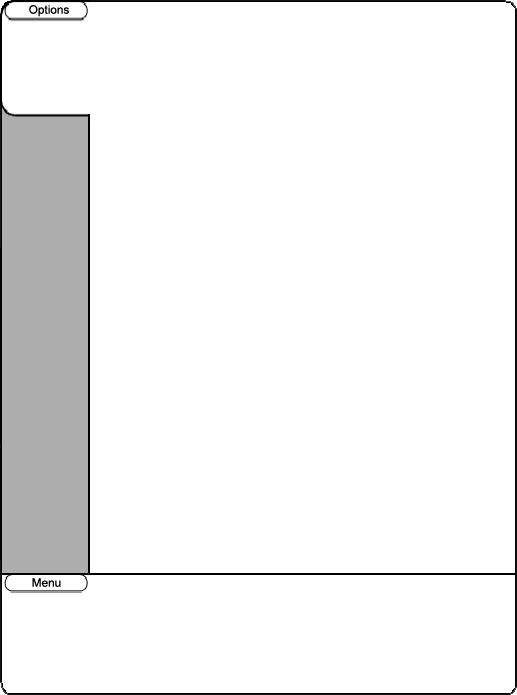
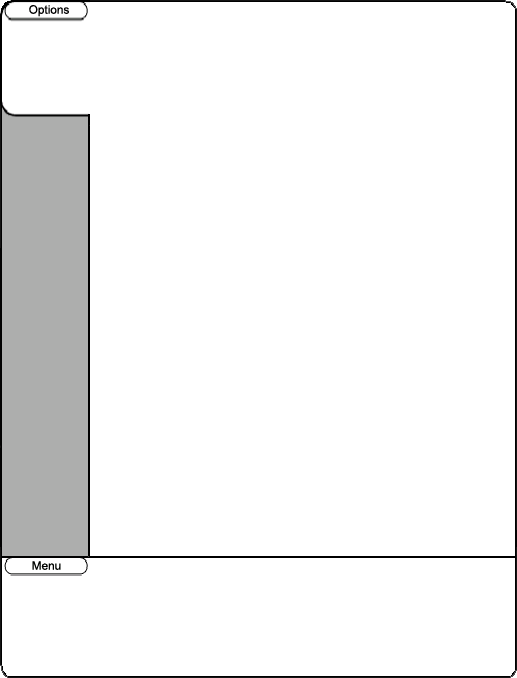
add close button in menu.

Changed region(s): [[0.0, 0.8053, 1.0, 0.8673], [0.0, 0.1549, 0.1857, 0.1858], [0.0, 0.0, 0.1547, 0.031]]

diff --git a/code/src/ui/menu.cpp b/code/src/ui/menu.cpp
@@ -34,6 +34,7 @@ PopupMenu::PopupMenu(QWidget *parent, bool load_translator)
 , system_section_()
 , separator_(this)
 , system_separator_(this)
+, close_pressed_(false)
 {
     createMenuLayout();
     onyx::screen::watcher().flush(this, onyx::screen::ScreenProxy::GU);
@@ -47,7 +48,7 @@ PopupMenu::~PopupMenu()
 // Create menu.
 void PopupMenu::createMenuLayout()
 {
-    big_layout_.setContentsMargins(2, 16, 5, 5);
+    big_layout_.setContentsMargins(2, 28, 5, 5);
 
     big_layout_.addLayout(&menu_layout_);
 
@@ -178,8 +179,16 @@ void PopupMenu::paintEvent(QPaintEvent *pe)
 //    onyx::screen::instance().enableUpdate(true);
 //    onyx::screen::watcher().flush(this, onyx::screen::ScreenProxy::GU);
 
+    QPixmap pixmap(":/images/close_menu.png");
+    if(close_pressed_)
+    {
+        pixmap = QPixmap(":/images/close_menu_pressed.png");
+    }
+    close_x_ = QPixmap(image_path).width()-pixmap.width()-8;
+    close_size_ = pixmap.size();
+    p.drawPixmap(close_x_, 2, pixmap);
 
-
+    onyx::screen::watcher().enqueue(this, onyx::screen::ScreenProxy::GU, onyx::screen::ScreenCommand::WAIT_NONE);
 }
 
 void PopupMenu::resizeEvent(QResizeEvent *)
@@ -189,6 +198,14 @@ void PopupMenu::resizeEvent(QResizeEvent *)
 
 void PopupMenu::mousePressEvent(QMouseEvent *me)
 {
+    QRect close_button_rect(close_x_, 2, close_size_.width(), close_size_.height());
+    if(close_button_rect.contains(me->pos()))
+    {
+        close_pressed_ = true;
+        update();
+        onyx::screen::watcher().enqueue(0, onyx::screen::ScreenProxy::A2, onyx::screen::ScreenCommand::WAIT_NONE);
+    }
+
     me->accept();
 }
 
@@ -205,6 +222,18 @@ void PopupMenu::mouseReleaseEvent(QMouseEvent *me)
         reject();
         return;
     }
+
+    QRect close_button_rect(close_x_, 2, close_size_.width(), close_size_.height());
+    if(close_button_rect.contains(me->pos()))
+    {
+        close_pressed_= false;
+        update();
+        me->accept();
+        this->accept();
+        onyx::screen::watcher().enqueue(0, onyx::screen::ScreenProxy::GU);
+        return;
+    }
+
     return QDialog::mouseReleaseEvent(me);
 }
 
@@ -322,6 +351,10 @@ int PopupMenu::popup(const QString &)
         QCoreApplication::processEvents();
     }
     QCoreApplication::removePostedEvents(0);
+
+    QRect rect = QApplication::desktop()->rect();
+    QPixmap pixmap(":/images/menu_background_1.png");
+    move((rect.width()-pixmap.width())/2, (rect.height()-pixmap.height())/2);
 
     int ret = exec();
 

diff --git a/code/src/ui/menu_item.cpp b/code/src/ui/menu_item.cpp
@@ -6,7 +6,7 @@
 namespace ui
 {
 
-static const int SPACING = 5;
+static const int SPACING = 3;
 
 static const QBrush SELECTED_BRUSH(QColor(0, 0, 0, 255));
 static const QBrush NORMAL_BRUSH(QColor(128, 128, 128, 128));
@@ -75,7 +75,7 @@ void MenuItem::paintEvent(QPaintEvent *e)
     static const int OFFSET = 1;
     static const int ROUNDED = 8;
     QPainterPath path;
-    QRect rc = rect();
+    QRect rc = QRect(0, 0, 80, 88); // focus range
     rc.adjust(OFFSET, OFFSET, -OFFSET, -OFFSET);
     path.addRoundedRect(rc, ROUNDED, ROUNDED, Qt::AbsoluteSize);
 
@@ -205,13 +205,13 @@ bool MenuItem::updateLayout()
             }
 
             line.setPosition(QPointF((rect().width() - layout_width_) >> 1, h));
-            h += line.height();
+            h += line.height()-1;
             line = title_layout_.createLine();
         }
         title_layout_.endLayout();
     }
 
-    title_layout_.setPosition(QPoint(0, iconActualSize().height() + SPACING));
+    title_layout_.setPosition(QPoint(0, iconActualSize().height() + 2));
 
     // icon.
     icon_pos_.rx() = ((rect().width() - iconActualSize().width()) >> 1);

diff --git a/code/include/onyx/ui/menu.h b/code/include/onyx/ui/menu.h
@@ -82,6 +82,10 @@ private:
 
     QLabel separator_;
     QLabel system_separator_;
+
+    int close_x_;
+    QSize close_size_;
+    bool close_pressed_;
 };
 
 }
